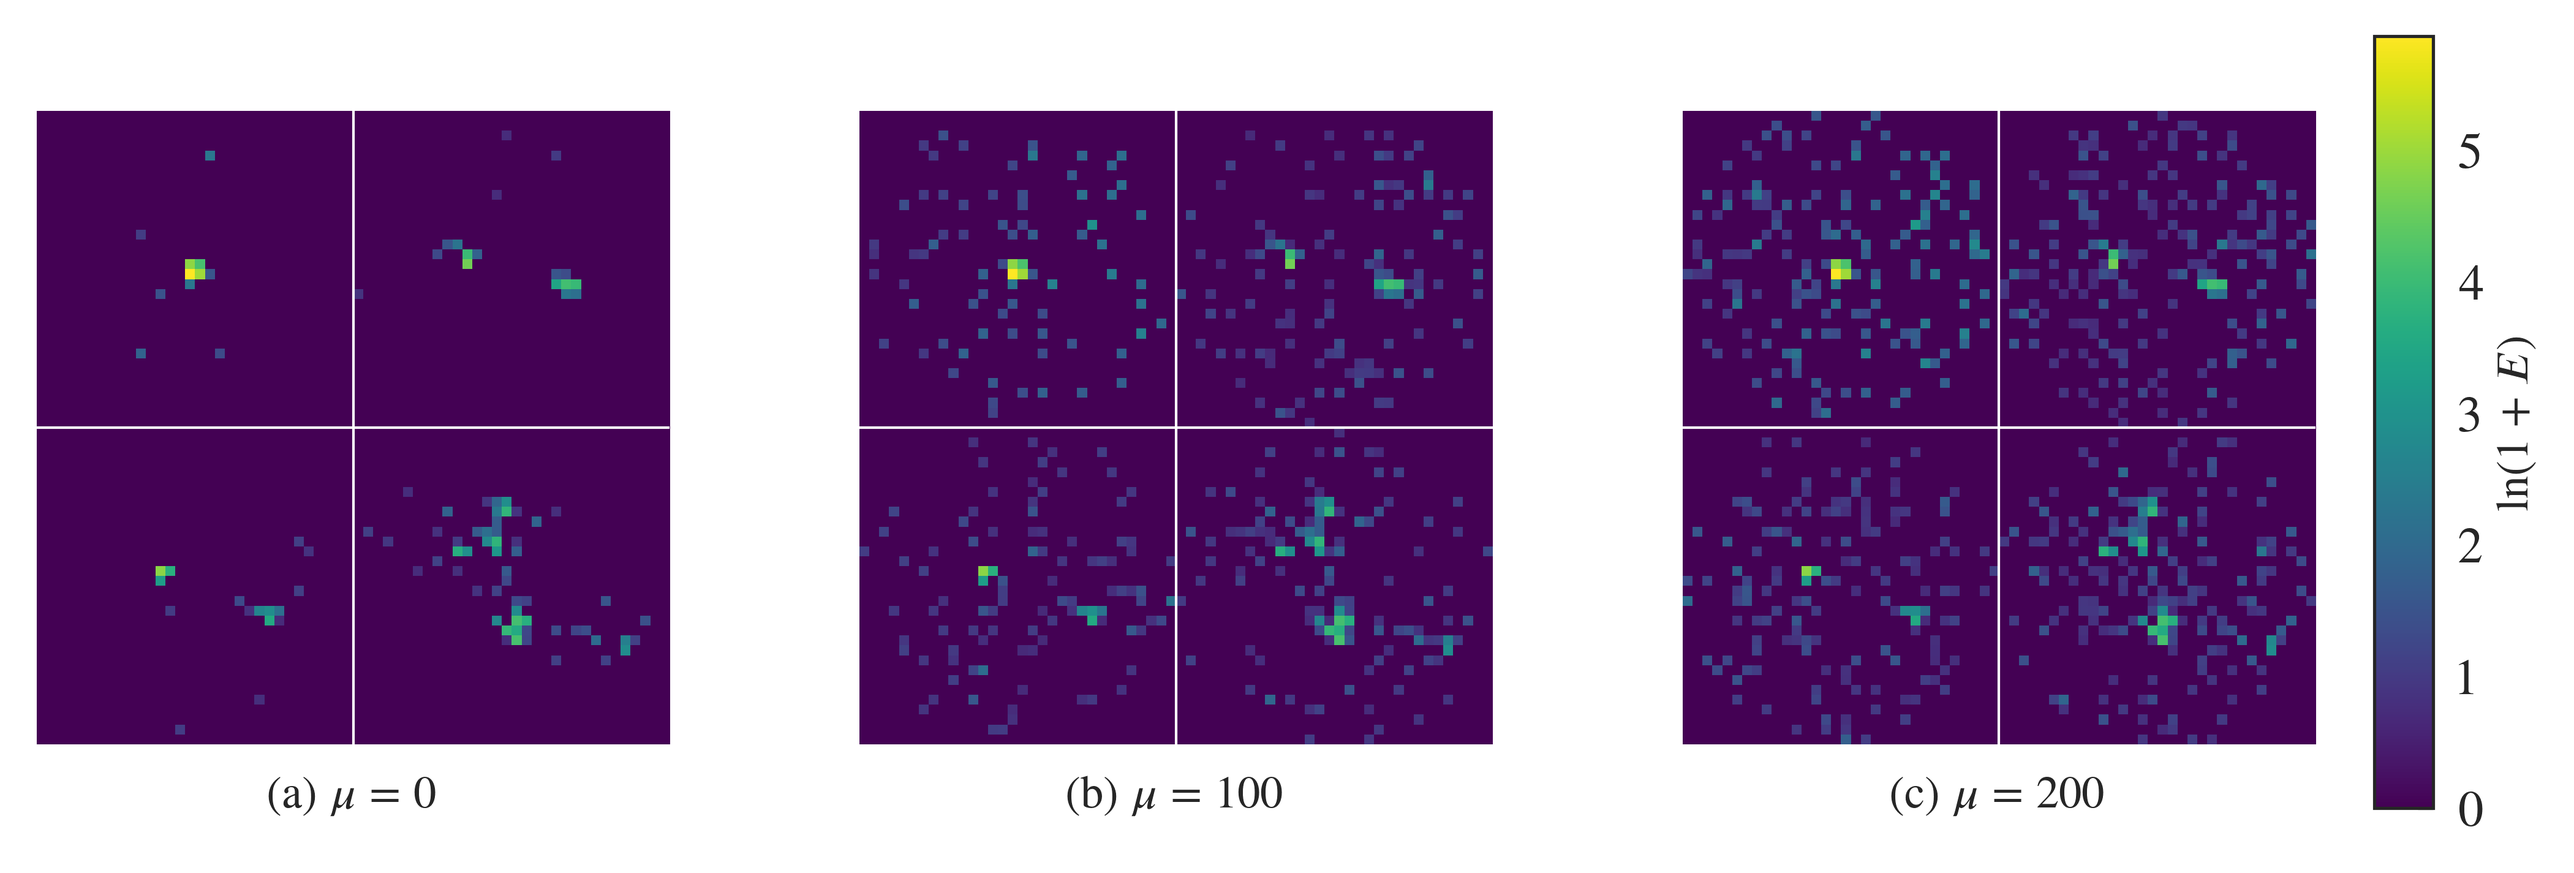
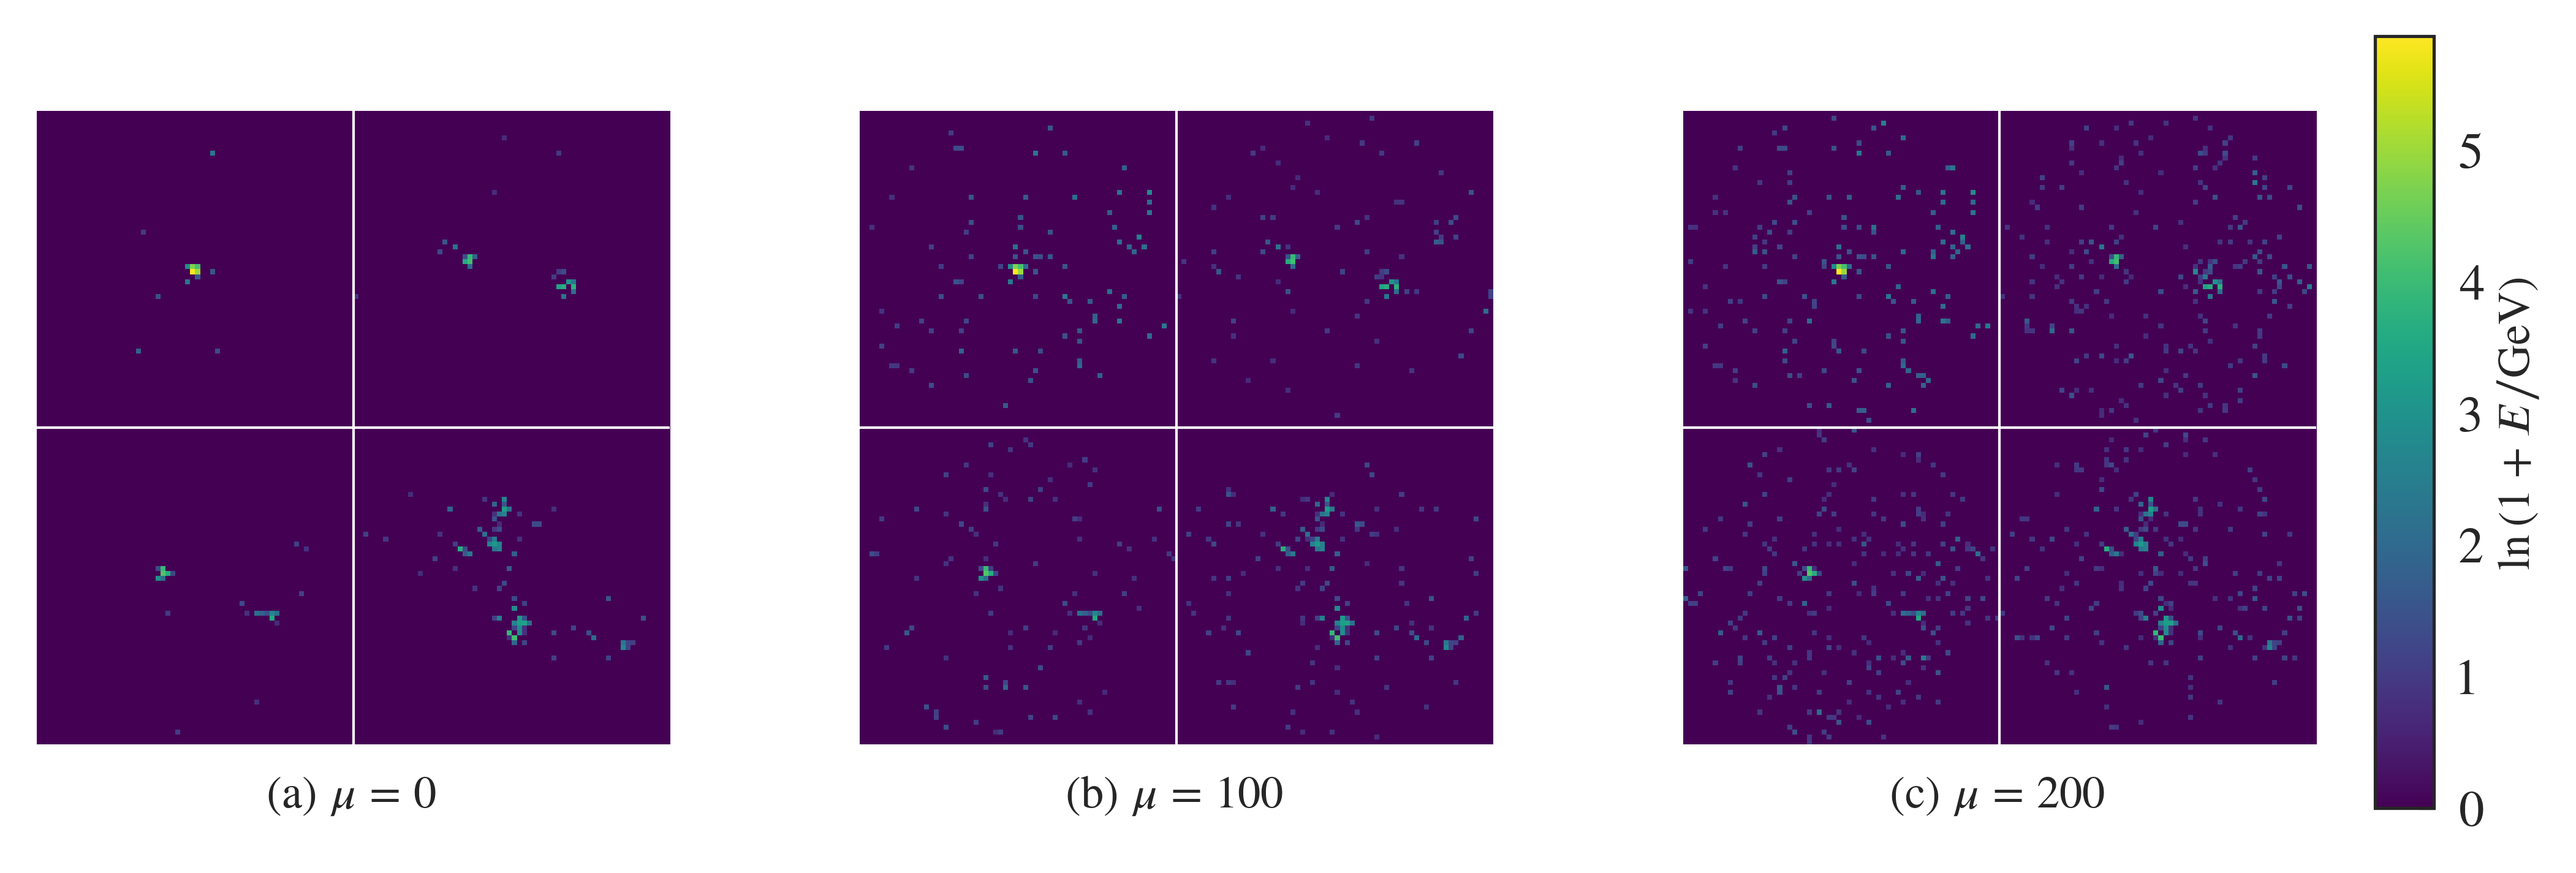
Do unit division in mu bmap comparisons

diff --git a/DDPMLHC/main_rs.py b/DDPMLHC/main_rs.py
@@ -17,17 +17,17 @@ mpl.rcParams.update(MPL_GLOBAL_PARAMS)
 
 # MAX_DATA_ROWS = 100_000
 
-# # === Read in data
-# print("0 :: Loading original data")
-# tt = np.genfromtxt(
-#     TT_PATH, delimiter=",", encoding="utf-8", skip_header=1, max_rows=MAX_DATA_ROWS
-# )
-# pile_up = np.genfromtxt(
-#     PILEUP_PATH, delimiter=",", encoding="utf-8", skip_header=1, max_rows=MAX_DATA_ROWS
-# )
-# tt = EventSelector(tt)
-# pile_up = EventSelector(pile_up)
-# print("FINISHED loading data\n")
+# === Read in data
+print("0 :: Loading original data")
+tt = np.genfromtxt(
+    TT_PATH, delimiter=",", encoding="utf-8", skip_header=1, max_rows=MAX_DATA_ROWS
+)
+pile_up = np.genfromtxt(
+    PILEUP_PATH, delimiter=",", encoding="utf-8", skip_header=1, max_rows=MAX_DATA_ROWS
+)
+tt = EventSelector(tt)
+pile_up = EventSelector(pile_up)
+print("FINISHED loading data\n")
 
 #################################################################################
 
@@ -38,6 +38,13 @@ mpl.rcParams.update(MPL_GLOBAL_PARAMS)
 # unique_vals = len(np.unique(pu_ids))
 # print(f"Number of unique values in the first column: {unique_vals}")
 # print( f"Percentage of non-empty pile-ups {(unique_vals/total_pileups)*100}" )
+
+# # Find avg_PU_per_nonzero_event
+# num_non_empty = len(np.unique(pile_up[:, 0]))
+# num_parts = len(pile_up)
+# avg_PU_per_nonzero_event = num_parts / num_non_empty
+# print(f"avg_PU_per_nonzero_event: {avg_PU_per_nonzero_event}")
+# # avg_PU_per_nonzero_event: 7.765886374696351
 
 #################################################################################
 
@@ -229,15 +236,15 @@ mpl.rcParams.update(MPL_GLOBAL_PARAMS)
 
 #################################################################################
 
-# output_path = f"{CWD}/data/plots/bmap_comparison/"
+output_path = f"{CWD}/data/plots/bmap_comparison/"
 
-# plot_mu_comparison(tt, pile_up, 
-#                   use_log=False,
-#                   save_path=f"{output_path}/mu_comparison_linear.png")
+plot_mu_comparison(tt, pile_up, 
+                  use_log=False,
+                  save_path=f"{output_path}/mu_comparison_linear.png")
 
-# plot_mu_comparison(tt, pile_up, 
-#                   use_log=True,
-#                   save_path=f"{output_path}/mu_comparison_log.png")
+plot_mu_comparison(tt, pile_up, 
+                  use_log=True,
+                  save_path=f"{output_path}/mu_comparison_log.png")
 
 #################################################################################
 
@@ -253,4 +260,11 @@ mpl.rcParams.update(MPL_GLOBAL_PARAMS)
 #################################################################################
 
 # plot_particle_level_quantities_comparison(f"{CWD}/data/plots/particle_level_quantities_comparison.png")
-plot_event_level_quantities_comparison(f"{CWD}/data/plots/event_level_quantities_comparison.png")
+# plot_event_level_quantities_comparison(tt, pile_up,
+#                                        f"{CWD}/data/plots/event_level_quantities_comparison.png")
+
+#################################################################################
+
+
+
+#################################################################################

diff --git a/DDPMLHC/generate_plots/bmap.py b/DDPMLHC/generate_plots/bmap.py
@@ -99,7 +99,7 @@ def plot_mu_comparison(tt, pile_up, use_log=False, save_path=None):
     # Add colorbar with proper spacing
     cbar_ax = fig.add_axes([0.92, 0.15, 0.02, 0.7])
     cbar = fig.colorbar(im, cax=cbar_ax)
-    cbar.set_label('$\ln(1+E)$' if use_log else 'Energy', fontsize=18)
+    cbar.set_label('$\ln\left(1+E/\\textrm{GeV}\\right)$' if use_log else 'Energy', fontsize=18)
     
     # Save if path provided
     if save_path:
